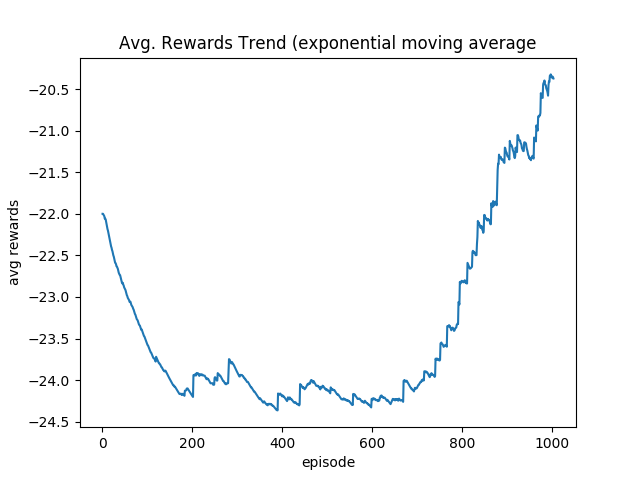
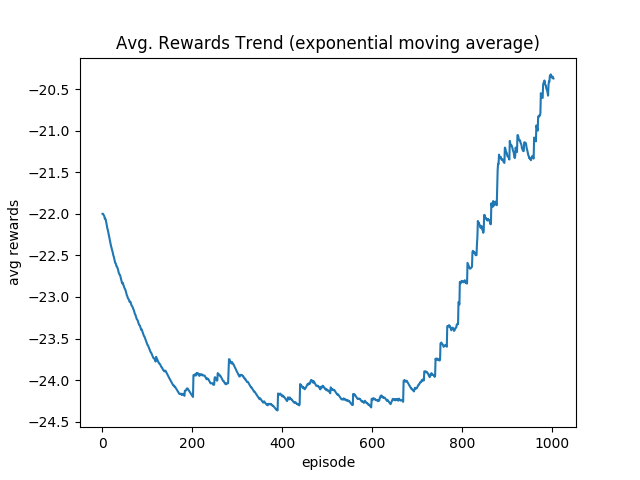
Fix small type in vis script; update plots

Changed region(s): [[0.1875, 0.0625, 0.8438, 0.125]]

diff --git a/src/utils/training_rewards_a3c_vis.py b/src/utils/training_rewards_a3c_vis.py
@@ -24,6 +24,6 @@ if __name__ == '__main__':
     
     fig, ax = plt.subplots()
     ax.plot(x, y)
-    ax.set(xlabel='episode', ylabel='avg rewards', title='Avg. Rewards Trend (exponential moving average')
+    ax.set(xlabel='episode', ylabel='avg rewards', title='Avg. Rewards Trend (exponential moving average)')
 
     fig.savefig(output_file)

diff --git a/src/utils/training_rewards_vis.py b/src/utils/training_rewards_vis.py
@@ -27,6 +27,6 @@ if __name__ == '__main__':
     
     fig, ax = plt.subplots()
     ax.plot(x, y)
-    ax.set(xlabel='episode', ylabel='avg rewards', title='Avg. Rewards Trend (exponential moving average')
+    ax.set(xlabel='episode', ylabel='avg rewards', title='Avg. Rewards Trend (exponential moving average)')
 
     fig.savefig(output_file)
